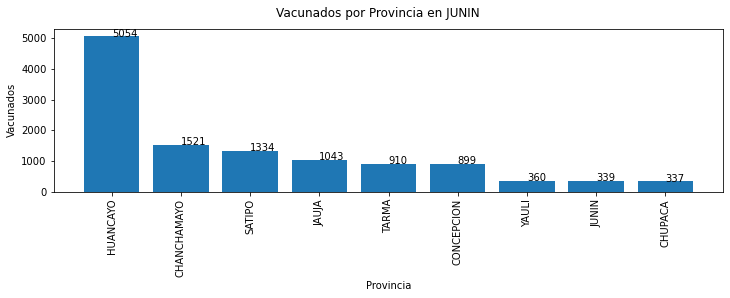
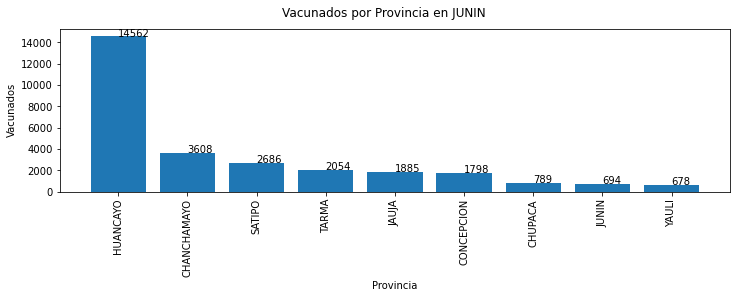
Data al 16MAR2021

diff --git a/README.md b/README.md
@@ -2,7 +2,7 @@
 
 Fuente de datos: https://www.datosabiertos.gob.pe/dataset/vacunaci%C3%B3n-contra-covid-19-ministerio-de-salud-minsa
 
-Datos actualizados al 2021-03-04
+Datos actualizados al 2021-03-16
 
 ## Promedio móvil (7 días) de vacunados a nivel nacional
 
